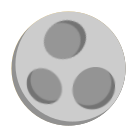
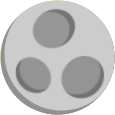
Added planet gravity, better hitboxes

diff --git a/client/js/states/PlayState.js b/client/js/states/PlayState.js
@@ -19,7 +19,8 @@ class PlayState extends Phaser.State {
         this.client = new GameClient();
         this.load.image('ship', 'images/rocket-green-flames.png'); //OBS
         this.load.image('cow', 'images/Ko2.png');
-        this.game.load.spritesheet('rocket_flame', '/images/rocket-animation-horizontal.png', 250, 176, );
+        this.load.image('planet','images/planet.png');
+        this.game.load.spritesheet('rocket_flame', '/images/rocket-animation-horizontal.png', 250, 176);
 
         this.client.on('connect', (obj) => {this.onConnect(obj) });
         this.client.on('disconnect', (obj) => {this.onDisconnect(obj) });
@@ -42,8 +43,14 @@ class PlayState extends Phaser.State {
 
 
         //Planets
-        this.planet = this.add.sprite(500, 500, 'planet');
+        this.planet = this.add.sprite(400, 400, 'planet');
+        this.planet.anchor.setTo(0.5,0.5);
         this.physics.arcade.enable(this.planet);
+        this.planet.g = 100;
+        this.planet.scale.setTo(1.5, 1.5);
+        this.planet.mass = 50000;
+        this.planet.body.immovable = true;
+        this.planet.body.setCircle(58);
 
 
         //Timers
@@ -115,12 +122,14 @@ class PlayState extends Phaser.State {
         ship.scale.setTo(0.35, 0.35);
         ship.anchor.setTo(0.5, 0.5);
         ship.angle = v;
+        ship.mass = 100;
 
         //Enable physics on ship
         this.physics.arcade.enable(ship);
         ship.body.maxVelocity = new Phaser.Point(250, 250);
         ship.body.drag = new Phaser.Point(30,30);
         ship.body.collideWorldBounds=true;
+        ship.body.setCircle(122, 122, 0);
 
         return ship;
     }
@@ -139,6 +148,16 @@ class PlayState extends Phaser.State {
             this.client.gotCow(cow.id);
         }
     }
+
+
+    calculateGravity(player, planet) {
+        let distance = Phaser.Math.distance(player.body.x, player.body.y, planet.body.x, planet.body.y);
+        let angle = Phaser.Math.angleBetween(player.x, player.y, planet.x, planet.y);
+        //this.game.physics.arcade.accelerateToObject(player, planet.body, 10000/(distance));
+        let a_x = Math.cos(angle)*planet.g*(planet.mass/(distance*distance));
+        let a_y = Math.sin(angle)*planet.g*(planet.mass/(distance*distance));
+        player.body.acceleration.setTo(a_x, a_y);
+    }   
 
     deletePlayer(id) {
         this.playerMap[id].destroy();
@@ -235,13 +254,16 @@ class PlayState extends Phaser.State {
     }
 
     update() {
+        
         this.scoreValue.setText(this.playerScore);
-
-        this.game.physics.arcade.collide(this.player, this.cows, this.collideCow, null, this);
 
         if (this.player==undefined) {
             return;
         }
+
+        this.calculateGravity(this.player, this.planet);
+        this.game.physics.arcade.collide(this.player, this.cows, this.collideCow, null, this);
+        this.game.physics.arcade.collide(this.player, this.planet);
         if (this.input.keyboard.isDown(Phaser.Keyboard.LEFT)) {
             //  Move to the left
             this.player.body.angularVelocity = -150;
@@ -266,7 +288,7 @@ class PlayState extends Phaser.State {
             //this.player.animations.play('walk', 14, true);
 
         } else if (this.player != undefined){
-            this.player.body.acceleration.setTo(0, 0);
+            //this.player.body.acceleration.setTo(0, 0);
         }
 
 
@@ -297,6 +319,9 @@ class PlayState extends Phaser.State {
            this.game.debug.text('id: ' + this.player.id, 30, start+=20);
            this.game.debug.text('cows: ' + this.cows.length, 30, start+=20);
            this.game.debug.text('players: ' + Object.keys(this.playerMap).length, 30, start+=20);
+           this.game.debug.body(this.player);
+           this.game.debug.body(this.planet);
+       
        }
     }
 }
